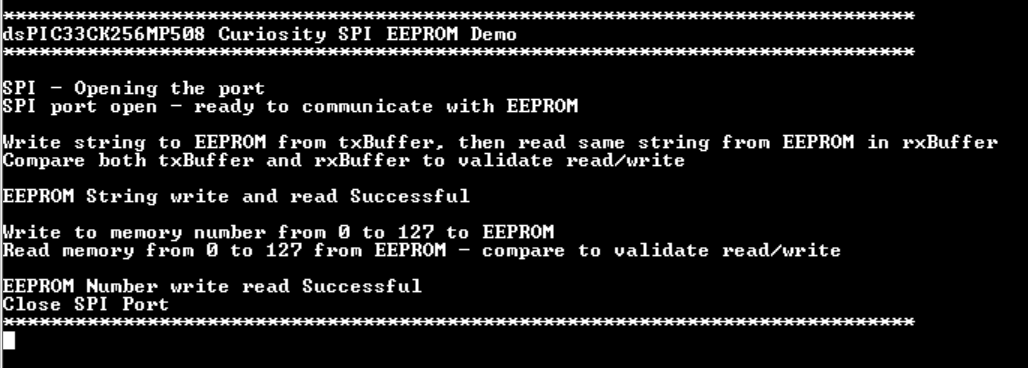
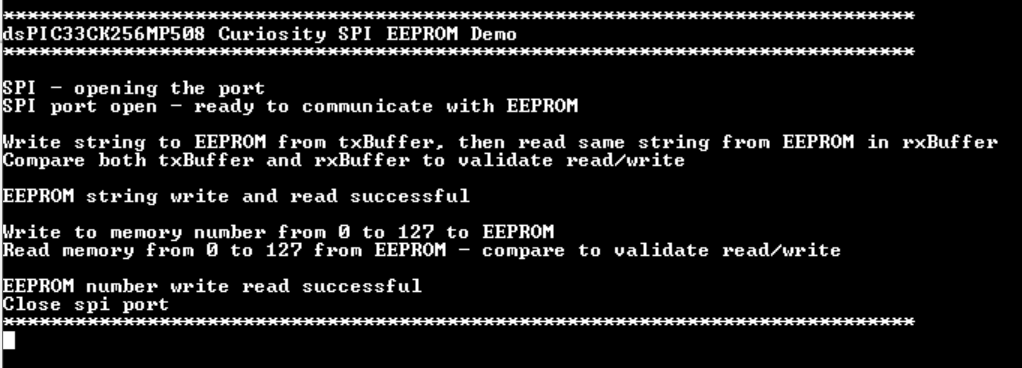
Addressed review comments
Changed enum name to app sequence

Updated Readme file with spelling correction

attached terminal report with latest changes with hardware test

diff --git a/dspic33ck-curiosity-spi-eeprom-demo.X/main.c b/dspic33ck-curiosity-spi-eeprom-demo.X/main.c
@@ -29,13 +29,13 @@
 #define         EEPROM_DATA_BUFFER_SIZE         20
 #define         EEPROM_DATA_BUFFER              "Microchip Technology"
 
-/* execution sequence */
-enum {
-    INIT,
-    STR_WRITE_READ,
-    NUM_WRITE_READ,
-    STOP,
-} SPI_STATUS;
+/* Application sequence */
+enum  APP_SEQUENCE {
+    APP_INIT,
+    APP_STR_WRITE_READ,
+    APP_NUM_WRITE_READ,
+    APP_STOP,
+};
 
 /*
     Main application
@@ -45,7 +45,7 @@ int main(void)
 {
     uint8_t txBuffer[EEPROM_DATA_BUFFER_SIZE] = EEPROM_DATA_BUFFER;
     uint8_t rxBuffer[EEPROM_DATA_BUFFER_SIZE] = {0};
-    uint8_t state = INIT; 
+    uint8_t state = APP_INIT; 
     uint8_t counter = 0; 
     uint8_t readData = 0;
     bool readStatus = true;
@@ -60,16 +60,16 @@ int main(void)
     while(!isExit)
     {
         switch(state){
-            case INIT:
-                printf("SPI - Opening the port \r\n");
+            case APP_INIT:
+                printf("SPI - opening the port \r\n");
                 SPI_Host->Open(EEPROM_25AA512);
                 while(!SPI_Host->IsTxReady());
                 printf("SPI port open - ready to communicate with EEPROM \r\n");
                 EEPROM_ChipErase(); //User can erase entire chip before write
-                state = STR_WRITE_READ;
+                state = APP_STR_WRITE_READ;
                 break;
                 
-            case STR_WRITE_READ: 
+            case APP_STR_WRITE_READ: 
                 printf("\r\n");
                 printf("Write string to EEPROM from txBuffer, then read same string from EEPROM in rxBuffer \r\n");
                 printf("Compare both txBuffer and rxBuffer to validate read/write     \r\n");
@@ -78,17 +78,17 @@ int main(void)
                 EEPROM_PageRead(EEPROM_DATA_START_ADDRESS, rxBuffer, 20);
                 if(strncmp((char *)txBuffer, (char *)rxBuffer, EEPROM_DATA_BUFFER_SIZE) == 0)
                 {
-                    printf("EEPROM String write and read Successful \r\n");
-                    state = NUM_WRITE_READ;
+                    printf("EEPROM string write and read successful \r\n");
+                    state = APP_NUM_WRITE_READ;
                 }
                 else
                 {
-                    printf("EEPROM String write and read Unsuccessful \r\n");
-                    state = NUM_WRITE_READ;
+                    printf("EEPROM string write and read unsuccessful \r\n");
+                    state = APP_NUM_WRITE_READ;
                 }
                 break;
                 
-            case NUM_WRITE_READ:
+            case APP_NUM_WRITE_READ:
                 printf("\r\n");
                 printf("Write to memory number from 0 to 127 to EEPROM \r\n");
                 printf("Read memory from 0 to 127 from EEPROM - compare to validate read/write \r\n");
@@ -109,18 +109,18 @@ int main(void)
                 }
                 if (readStatus == true)
                 {
-                    printf("EEPROM Number write read Successful \r\n");
+                    printf("EEPROM number write read successful \r\n");
                 }
                 else
                 {
-                    printf("EEPROM Number write read Unsuccessful \r\n");
+                    printf("EEPROM number write read unsuccessful \r\n");
                 }
-                printf("Close SPI Port \r\n");
+                printf("Close spi port \r\n");
                 printf("****************************************************************************\r\n");
-                state = STOP;
+                state = APP_STOP;
                 break;
                 
-            case STOP:               
+            case APP_STOP:               
                 SPI_Host->Close();
                 isExit = true;
                 break;

diff --git a/README.md b/README.md
@@ -6,10 +6,10 @@
 
 ## Summary
 
-This project demonstrates SPI Communication on dsPIC33CK Curiosity board using MCC-Melody driver code.
-The demo code writes string and Numbers into EEPROM and reads it back from eeprom then compares 
-trasmitted and received string and Numbers to validate EEPROM write read. 
-This example uses 25AA512 based SPI PIM with size of 512K bit with 128byte page size.
+This project demonstrates SPI communication on the dsPIC33CK Curiosity board using MCC-Melody driver code.
+The demo code writes strings and numbers into EEPROM and reads them back from EEPROM, then compares 
+transmitted and received strings and numbers to validate EEPROM write and read. 
+This example uses 25AA512 based SPI PIM with a size of 512K bits with 128-byte page size.
 
 ## Related Documentation
 
@@ -26,27 +26,27 @@ This example uses 25AA512 based SPI PIM with size of 512K bit with 128byte page 
 ## Hardware Used
 
 - [dsPIC33CK Curiosity Board](https://www.microchip.com/dm330030)
-- [SPI PIM]
+- [SPI PIM](https://www.microchip.com/en-us/development-tool/ac243003)
 
 ## Setup
 
 **Hardware Setup**
 
-- Connect a micro-USB cable to port `J7` of Curiosity board to USB port of PC
-- Make connection using connecting wires between SPI PIM and Curiosity board.
+- Connect a micro-USB cable to port `J7` of Curiosity board to the USB port of a PC.
+- Make a connection using connecting wires between SPI PIM and the Curiosity board.
 
 **MPLAB® X IDE Setup**
 
-- Open the `dspic33c-dma-adc-to-uart.X` project in MPLAB® X IDE
-- Build and program the device
+- Open the `dspic33c-dma-adc-to-uart.X` project in MPLAB® X IDE.
+- Build and program the device.
 
 ## Operation
 
-- The demo code has two states - string write/read and Number write/read.
-- In first state demo code writes string (declared in transmit buffer) into EEPROM and reads it back from EEPROM in receive buffer,
-  Compares both transmit and receive buffer and prints the EEPROM write/read status in Serial Terminal.
-- In second state demo code writes Number starting from 0 to 127(Max page size) into EEPROM and reads it back from EEPROM,
-  Compares transmitted and received Numbers and prints the EEPROM write/read status in Serial Terminal.
+- The demo code has two states - strings write/read and number write/read.
+- In the first state, the demo code write a string (declared in transmit buffer) into the EEPROM and reads it back from the EEPROM in the receive buffer,
+  compares both the transmit and receive buffer, and prints the EEPROM write/read status in the serial terminal.
+- In second state demo code writes number starting from 0 to 127(Max page size) into EEPROM and reads it back from EEPROM,
+  compares transmitted and received numbers and prints the EEPROM write/read status in serial terminal.
   ![Serial Terminal Output](images/write_successful.PNG)
 
 ## MCC settings for reference
